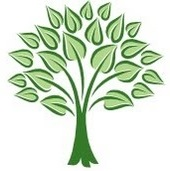
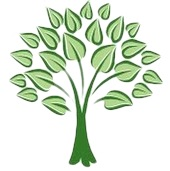
updated images and styling

diff --git a/app/index.html b/app/index.html
@@ -11,6 +11,7 @@
         <meta http-equiv="X-UA-Compatible" content="IE=edge">
         <title>North Raleigh Tree Service</title>
         <!-- Place favicon.ico and apple-touch-icon.png in the root directory -->
+        <link rel="icon" type="image/png" href="favicon.png">
         <!-- build:css(.tmp) styles/main.css -->
         <link rel="stylesheet" href="styles/main.css">
         <!-- endbuild -->
@@ -40,6 +41,7 @@
                   <ul class="nav navbar-nav pull-right">
                     <li><img width="32" src="images/US.png"/></li>
                     <li><a href="tel:+19198082467">1-919-808-CHOP/2467</a></li>
+                    <li><a href="service@northraleightree.com">Email Us</a></li>
                   </ul>
                 </div>
               </div>
@@ -63,7 +65,7 @@
                 <div class="carousel-caption">
                   <h1>Contact Us Today</h1>
                   <p>We have staff ready to work out any of your tree problems.</p>
-                  <p><a class="btn btn-large btn-primary" href="contact.html">Get A Quote</a></p>
+                  <p><a class="btn btn-large btn-success" href="contact.html">Get A Quote</a></p>
                 </div>
               </div>
             </div>
@@ -73,7 +75,7 @@
                 <div class="carousel-caption">
                   <h1>Tree Services</h1>
                   <p>From tree removal to stump grinding we can tackle the most difficult problems.</p>
-                  <p><a class="btn btn-large btn-primary" href="services.html">Learn More</a></p>
+                  <p><a class="btn btn-large btn-success" href="services.html">Learn More</a></p>
                 </div>
               </div>
             </div>
@@ -83,7 +85,7 @@
                 <div class="carousel-caption">
                   <h1>Testimonials</h1>
                   <p>Find out what our customers have to save about us.</p>
-                  <p><a class="btn btn-large btn-primary" href="testimonials.html">Read More</a></p>
+                  <p><a class="btn btn-large btn-success" href="testimonials.html">Read More</a></p>
                 </div>
               </div>
             </div>
@@ -101,15 +103,10 @@
           <!-- Three columns of text below the carousel -->
           <div class="row">
             <div class="col-lg-8">
-              <img id="tree-icon" src="images/northraleightree.jpg" class="pull-left"/>
+              <img id="tree-icon" src="images/northraleightree.png" class="pull-left"/>
               <h2>North Raleigh Tree Service</h2>
-              <!-- Button trigger modal -->
-              <a data-toggle="modal" href="#myModal" class="pull-right" style="text-align:center">
-                <img src="images/Miller Trees-31 512 web.jpg" width="184" height="184" class="img-thumbnail">
-                <h5>Slide Show</h5>
-              </a>
-              <p>As a homeowner in North Raleigh, my home was inundated with unstable root systems, aging trees, and a pasture that was only partially usable.  I experienced many different tree removal professionals and decided there should be a better way to do business; be on time, communicate effectively, follow through, and then stand behind the work. I then set out to build a top-notch crew with the ability to handle a variety of jobs. I finally managed to find the right team members with the right work ethic and skills. Additionally, by fully owning my equipment, I can control the entire process and provide excellent prices, hire veterans and people that I trust with our lives and your property. We will take the time to understand your needs precisely,  work with you to best achieve what you want, and won’t be satisfied until you are happy.</p>
-              <img src="images/Miller Trees-27 256 web.jpg" width="128" class="pull-left img-thumbnail"/>
+              <p>As a homeowner in North Raleigh, my home was inundated with unstable root systems, aging trees, and a pasture that was only partially usable.  I experienced many different tree removal professionals and decided there should be a better way to do business; be on time, communicate effectively, follow through, and then stand behind the work. I then set out to build a top-notch crew with the ability to handle a variety of jobs. I finally managed to find the right team members with the right work ethic and skills. Additionally, by fully owning my equipment, I can control the entire process and provide excellent prices, hire veterans and people that I trust with our lives and your property. We will take the time to understand your needs precisely,  work with you to best achieve what you want, and won't be satisfied until you are happy.</p>
+              <img src="images/Miller Trees-27 256 web.jpg" width="184" class="pull-left img-thumbnail"/>
               <p>Removing or trimming trees creates a mess, as I understand and have experienced first hand. North Raleigh Tree will not just chop and run.  We remove all branches, trunks, and clean up the mess, so you can get back to enjoying your property more than before we arrived.</p>
               <p>If you want the logs for firewood, great.  If you want the wood chips for mulch or a pathway, great....We do it all.</p>
               <p>Don't put off that unstable tree looming over your yard or home.  Call us today, and know that since we live in the neighborhood, we stand accountable for our work!</p>
@@ -119,7 +116,7 @@
               <hr/>
 
               <h3>When Mother Nature Strikes</h3>
-              <img src="images/Miller Trees-7 512 web.jpg" width="184" class="pull-left img-thumbnail"/>
+              <img src="images/mother nature.jpg" width="184" class="pull-right img-thumbnail"/>
               <p>Despite the best efforts of a regular tree trimming program, no one can prevent the kind of tree damage caused by catastrophic weather events such as ice, snow, tornadoes or hurricanes. And once the damage is done, it's a relief to know there's a response team available like ours. North Raleigh Tree Service storm emergency crews are as near as your telephone. If you need help, North Raleigh Tree Service has unparalleled resources in manpower and equipment throughout Raleigh and neighboring towns, ready to assist you. All you have to do is contact us.</p>
               <p>Our Quality Personnel are well-trained crews that are ready to help with trees that are down or dangerously damaged by wind, ice, snow or rain. It's reassuring to know that our tree crews are there to help under any circumstance. To speed up the restoration process, North Raleigh Tree Service can also provide Storm Damage Assessment personnel to help prioritize work and identify how many and what type of tree crew is needed. Ready to serve you at any hour of the day or night, our crews and supervision are dedicated to getting you back on line and your customers back in service.</p>
 
@@ -174,10 +171,18 @@
                 </div><!-- /.modal-dialog -->
               </div><!-- /.modal -->
             </div><!-- /.col-lg-6 -->
-            <div class="col-lg-4 well">
-              <h2>Testimonial</h2>
-              <p>&quot;North Raleigh Tree stood out from the rest of their competitors from the very beginning. They evaluated our daunting yard situation, specifically asked about our desired outcome and vision for our yard, and made knowledgeable recommendations on which trees to keep and which to remove....&quot; <a href="testimonials.html">Read More</a></p>
-              <p>- Jeff and Carrie Miller</p>
+            <div class="col-lg-4">
+              <!-- Button trigger modal -->
+              <a data-toggle="modal" href="#myModal" style="text-align:center">
+                <img src="images/Miller Trees-31 512 web.jpg" width="100%"class="img-thumbnail">
+                <h5>Slide Show</h5>
+              </a>
+              <br/>
+              <div class="well">
+                <h2>Testimonial</h2>
+                <p>&quot;North Raleigh Tree stood out from the rest of their competitors from the very beginning. They evaluated our daunting yard situation, specifically asked about our desired outcome and vision for our yard, and made knowledgeable recommendations on which trees to keep and which to remove....&quot; <a href="testimonials.html">Read More</a></p>
+                <p>- Jeff and Carrie Miller</p>
+              </div>
             </div><!-- /.col-lg-6 -->
             <img src="images/American.jpg" class="img-thumbnail"/>
           </div><!-- /.row -->

diff --git a/app/testimonials.html b/app/testimonials.html
@@ -11,6 +11,7 @@
         <meta http-equiv="X-UA-Compatible" content="IE=edge">
         <title>North Raleigh Tree Service</title>
         <!-- Place favicon.ico and apple-touch-icon.png in the root directory -->
+        <link rel="icon" type="image/png" href="favicon.png">
         <!-- build:css(.tmp) styles/main.css -->
         <link rel="stylesheet" href="styles/main.css">
         <!-- endbuild -->
@@ -41,6 +42,7 @@
                   <ul class="nav navbar-nav pull-right">
                     <li><img width="32" src="images/US.png"/></li>
                     <li><a href="tel:+19198082467">1-919-808-CHOP/2467</a></li>
+                    <li><a href="service@northraleightree.com">Email Us</a></li>
                   </ul>
                 </div>
               </div>
@@ -58,7 +60,7 @@
           <!-- Three columns of text below the carousel -->
           <div class="row">
             <div class="col-lg-12">
-              <img id="tree-icon" src="images/northraleightree.jpg" class="pull-left"/>
+              <img id="tree-icon" src="images/northraleightree.png" class="pull-left"/>
               <h1>Testimonials</h1>
               <h3>We have had success servicing both commercial and residential properties.  We are pleased to put up some of our reviews.</h3>
             </div><!-- /.col-lg-12 -->
@@ -76,6 +78,19 @@
               <h5>Residential</h5>
             </div>
           </div><!-- /.row -->
+
+          <div class="row">
+            <div class="col-lg-12">
+              <h2>References</h2>
+              <h5>Charles Comer</h5>
+              <h5>Powder Horn Properties LLC.</h5>
+              <h5><a href="tel:9199065849">919-906-5849</a></h5>
+              <br/>
+              <h5>Jay Comer</h5>
+              <h5>Boarzhead's Wildlife Taxidermy</h5>
+              <h5><a href="tel:6029300920">602-930-0920</a></h5>
+            </div>
+          </div>
 
           <!-- FOOTER -->
           <footer>

diff --git a/app/services.html b/app/services.html
@@ -11,6 +11,7 @@
         <meta http-equiv="X-UA-Compatible" content="IE=edge">
         <title>North Raleigh Tree Service</title>
         <!-- Place favicon.ico and apple-touch-icon.png in the root directory -->
+        <link rel="icon" type="image/png" href="favicon.png">
         <!-- build:css(.tmp) styles/main.css -->
         <link rel="stylesheet" href="styles/main.css">
         <!-- endbuild -->
@@ -41,6 +42,7 @@
                   <ul class="nav navbar-nav pull-right">
                     <li><img width="32" src="images/US.png"/></li>
                     <li><a href="tel:+19198082467">1-919-808-CHOP/2467</a></li>
+                    <li><a href="service@northraleightree.com">Email Us</a></li>
                   </ul>
                 </div>
               </div>
@@ -58,11 +60,19 @@
           <!-- Three columns of text below the carousel -->
           <div class="row">
             <div class="col-lg-12">
-              <img id="tree-icon" src="images/northraleightree.jpg" class="pull-left"/>
+              <img id="tree-icon" src="images/northraleightree.png" class="pull-left"/>
               <h1>Services</h1>
               <h3>Below is a list of services we can and have provided for our customers.</h3>
             </div>
             <div class="col-lg-12">
+              <h3>Tree Removal</h3>
+              <p></p>
+              <h3>Tree Pruning</h3>
+              <p></p>
+              <h3>Stump Grinding</h3>
+              <p></p>
+              <h3>Wood Chipping</h3>
+              <p></p>
             </div>
           </div><!-- /.row -->
 

diff --git a/app/contact.html b/app/contact.html
@@ -11,6 +11,7 @@
         <meta http-equiv="X-UA-Compatible" content="IE=edge">
         <title>North Raleigh Tree Service</title>
         <!-- Place favicon.ico and apple-touch-icon.png in the root directory -->
+        <link rel="icon" type="image/png" href="favicon.png">
         <!-- build:css(.tmp) styles/main.css -->
         <link rel="stylesheet" href="styles/main.css">
         <!-- endbuild -->
@@ -41,6 +42,7 @@
                   <ul class="nav navbar-nav pull-right">
                     <li><img width="32" src="images/US.png"/></li>
                     <li><a href="tel:+19198082467">1-919-808-CHOP/2467</a></li>
+                    <li><a href="service@northraleightree.com">Email Us</a></li>
                   </ul>
                 </div>
               </div>
@@ -58,7 +60,7 @@
           <!-- Three columns of text below the carousel -->
           <div class="row">
             <div class="col-lg-12">
-              <img id="tree-icon" src="images/northraleightree.jpg" class="pull-left"/>
+              <img id="tree-icon" src="images/northraleightree.png" class="pull-left"/>
               <h1>Contact Us</h1>
               <h3>Contact us for a quote.  We will service requests based on a first come first serve bases.</h3>
             </div>

diff --git a/app/styles/main.css b/app/styles/main.css
@@ -4580,9 +4580,11 @@ td.visible-print {
 body {
   padding-bottom: 40px;
   color: #4a4a4a;
+  background-color: #F2FAF5;
 }
 #tree-icon {
-  padding: 10px;
+  margin-left: 10px;
+  margin-right: 10px;
 }
 footer {
   padding-top: 30px;
@@ -4590,6 +4592,18 @@ footer {
 img.img-thumbnail {
   margin-left: 10px;
   margin-right: 10px;
+}
+img.pull-left.img-thumbnail {
+  margin-left: 0px;
+  margin-right: 10px;
+}
+img.pull-right.img-thumbnail {
+  margin-left: 10px;
+  margin-right: 0px;
+}
+a > img.img-thumbnail {
+  margin-left: 0px;
+  margin-right: 0px;
 }
 /* CUSTOMIZE THE NAVBAR
 -------------------------------------------------- */
@@ -4635,7 +4649,7 @@ a.navbar-brand {
 -------------------------------------------------- */
 /* Carousel base class */
 #myCarousel {
-  margin-bottom: 60px;
+  margin-bottom: 40px;
   /* Negative margin to pull up carousel. 90px is roughly margins and height of navbar. */
 
   margin-top: -90px;

diff --git a/app/less/main.less b/app/less/main.less
@@ -9,10 +9,12 @@
 body {
   padding-bottom: 40px;
   color: #4a4a4a;
+  background-color: #F2FAF5;
 }
 
 #tree-icon {
-  padding: 10px;
+  margin-left: 10px;
+  margin-right: 10px;
 }
 
 footer {
@@ -22,6 +24,21 @@ footer {
 img.img-thumbnail {
   margin-left: 10px;
   margin-right: 10px;
+}
+
+img.pull-left.img-thumbnail {
+  margin-left: 0px;
+  margin-right: 10px;
+}
+
+img.pull-right.img-thumbnail {
+  margin-left: 10px;
+  margin-right: 0px;
+}
+
+a > img.img-thumbnail {
+  margin-left: 0px;
+  margin-right: 0px;
 }
 
 /* CUSTOMIZE THE NAVBAR
@@ -74,7 +91,7 @@ a.navbar-brand {
 
 /* Carousel base class */
 #myCarousel {
-  margin-bottom: 60px;
+  margin-bottom: 40px;
   /* Negative margin to pull up carousel. 90px is roughly margins and height of navbar. */
   margin-top: -90px;
   color: #000000;
